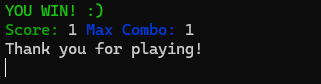
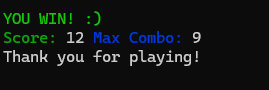
Add difficulty selection
- 3 Difficulty options added
- Added spaces to terminal outputs

Changed region(s): [[0.0, 0.0238, 0.7435, 0.9048], [0.7138, 0.3333, 0.7732, 0.5]]

diff --git a/MathGame.py b/MathGame.py
@@ -1,6 +1,30 @@
 import random
 import time
 
+def difficulty(state):
+    global maxnum
+    while True:
+        try:
+            print("Select Difficulty:\n\033[31m1 Hard\033[0m \033[33m2 Medium\033[0m \033[32m3 Easy\033[0m")
+            select = int(input("Select: "))
+            print("")
+            if select == 1:
+                state["monsterhealth"] = 300
+                maxnum = 250
+                break
+            elif select == 2:
+                state["monsterhealth"] = 100
+                maxnum = 100
+                break
+            elif select == 3:
+                state["monsterhealth"] = 50
+                maxnum = 50
+                break
+            else:
+                print("Just select 1, 2 and 3\n")
+        except ValueError:
+            print("\nJust select 1, 2 and 3\n")
+
 # Gets the answer from the user
 def userinput(op):
     global reply
@@ -36,15 +60,19 @@ def combos(state):
     if state["combo"] > state["maxcombo"]:
         state["maxcombo"] = state["combo"]
 
-state = {"monsterhealth": 100, "score": 0, "combo": 0, "maxcombo": 0}
+state = {"monsterhealth": 0, "score": 0, "combo": 0, "maxcombo": 0}
 
 operation = ("+", "-", "*", "//")
+
+maxnum = 0
+
+difficulty(state)
 
 # Loop
 while True:
 
-    num1 = random.randint(0, 100)
-    num2 = random.randint(1, 100)
+    num1 = random.randint(0, maxnum)
+    num2 = random.randint(1, maxnum)
     
     op = random.choice(operation)
     
@@ -56,18 +84,18 @@ while True:
     if result == reply:
         true(state)
         combos(state)
-        print("\033[1;32mTrue! :)\033[0m")
+        print("\n\033[1;32mTrue! :)\033[0m")
         print(f"\33[31mMonster Health:\033[0m {state["monsterhealth"]}")
-        print(f"\033[32mScore:\033[0m {state['score']} \033[34mCombo:\033[0m {state["combo"]}")
+        print(f"\033[32mScore:\033[0m {state['score']} \033[34mCombo:\033[0m {state["combo"]}\n")
     else:
         false(state)
-        print("\033[1;31mFalse! :(\033[0m")
+        print("\n\033[1;31mFalse! :(\033[0m")
         print(f"\33[31mMonster Health:\033[0m {state["monsterhealth"]}")
-        print(f"\033[32mScore:\033[0m {state["score"]} \033[31mCombo:\033[0m {state["combo"]}")
+        print(f"\033[32mScore:\033[0m {state["score"]} \033[31mCombo:\033[0m {state["combo"]}\n")
 
     # The game ends when the monster dies
     if state["monsterhealth"] == 0:
-        print("\033[1;32;40mYOU WIN! :)\033[0m")
+        print("\n\n\033[1;32;40mYOU WIN! :)\033[0m")
         combos(state)
         print(f"\033[32mScore:\033[0m {state["score"]} \033[34mMax Combo:\033[0m {state["maxcombo"]}")
         print("Thank you for playing!")
